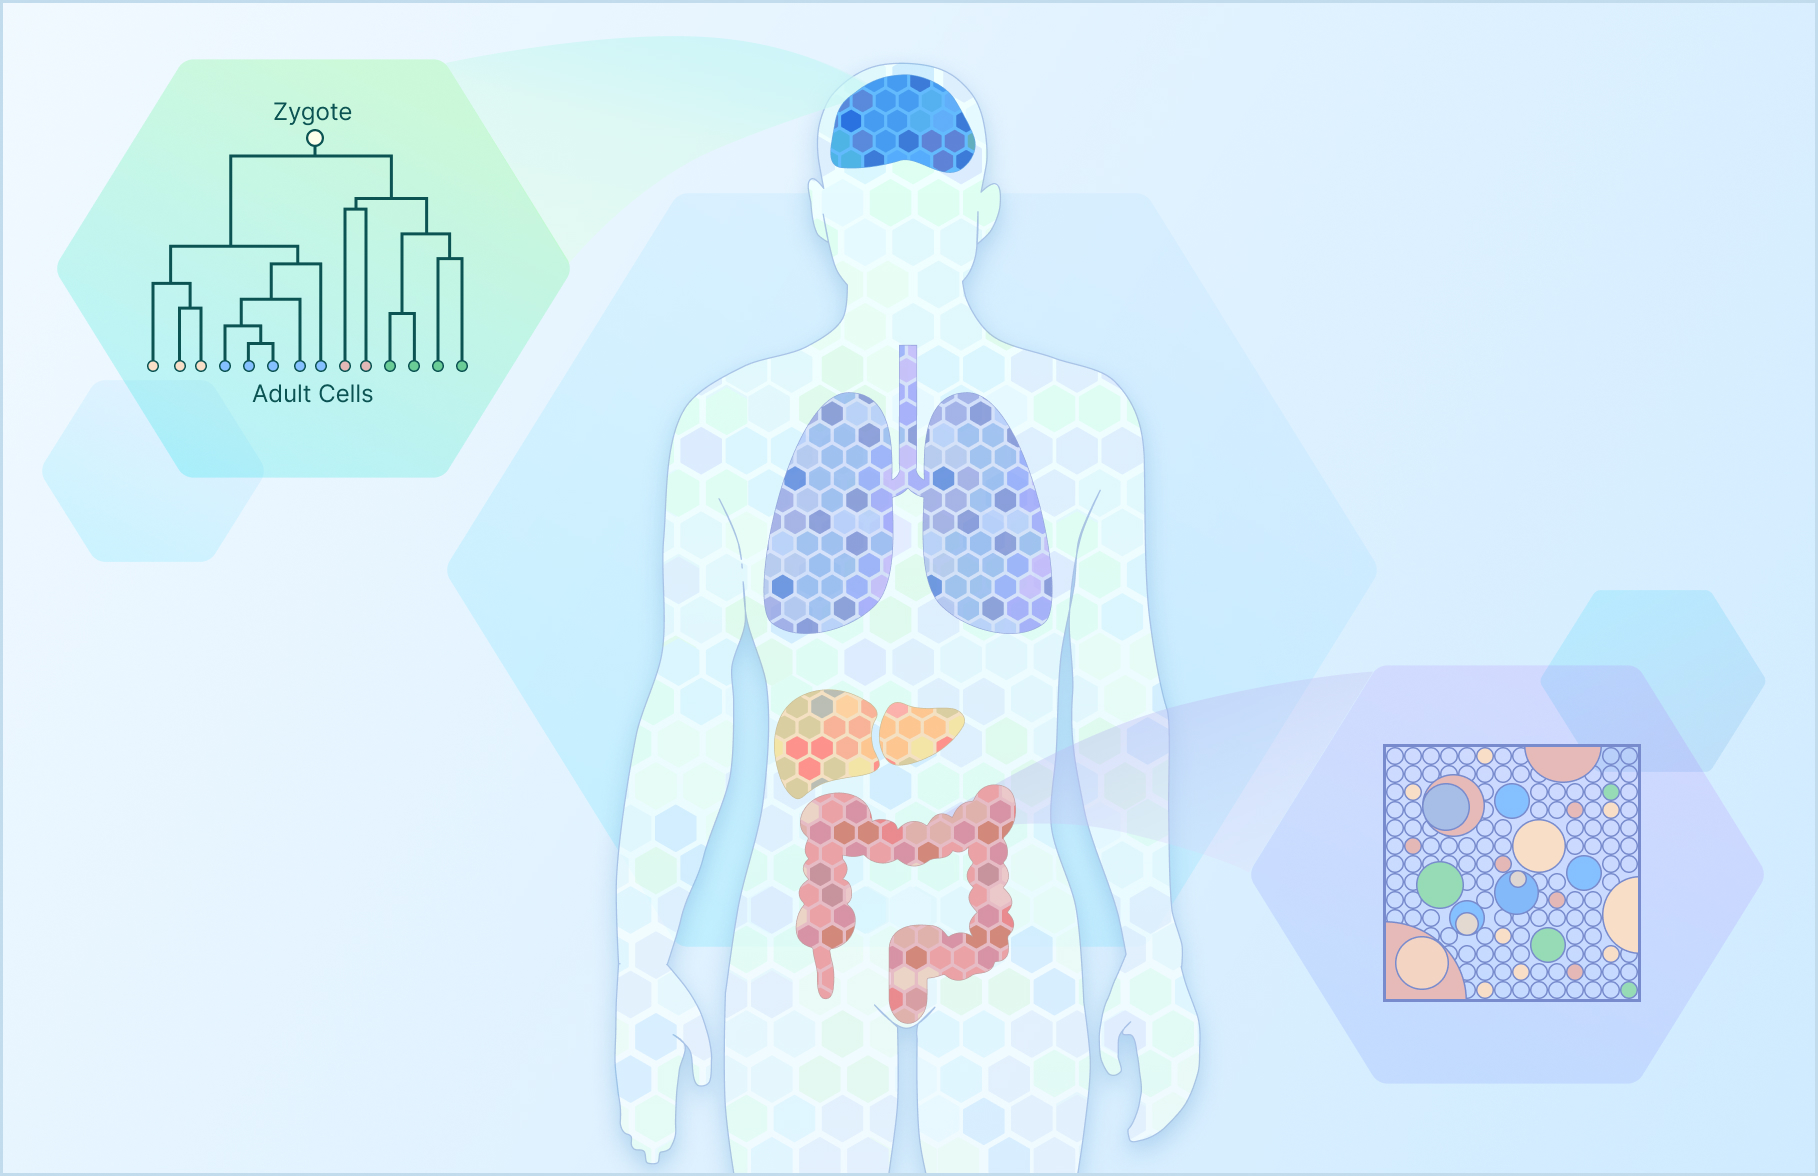
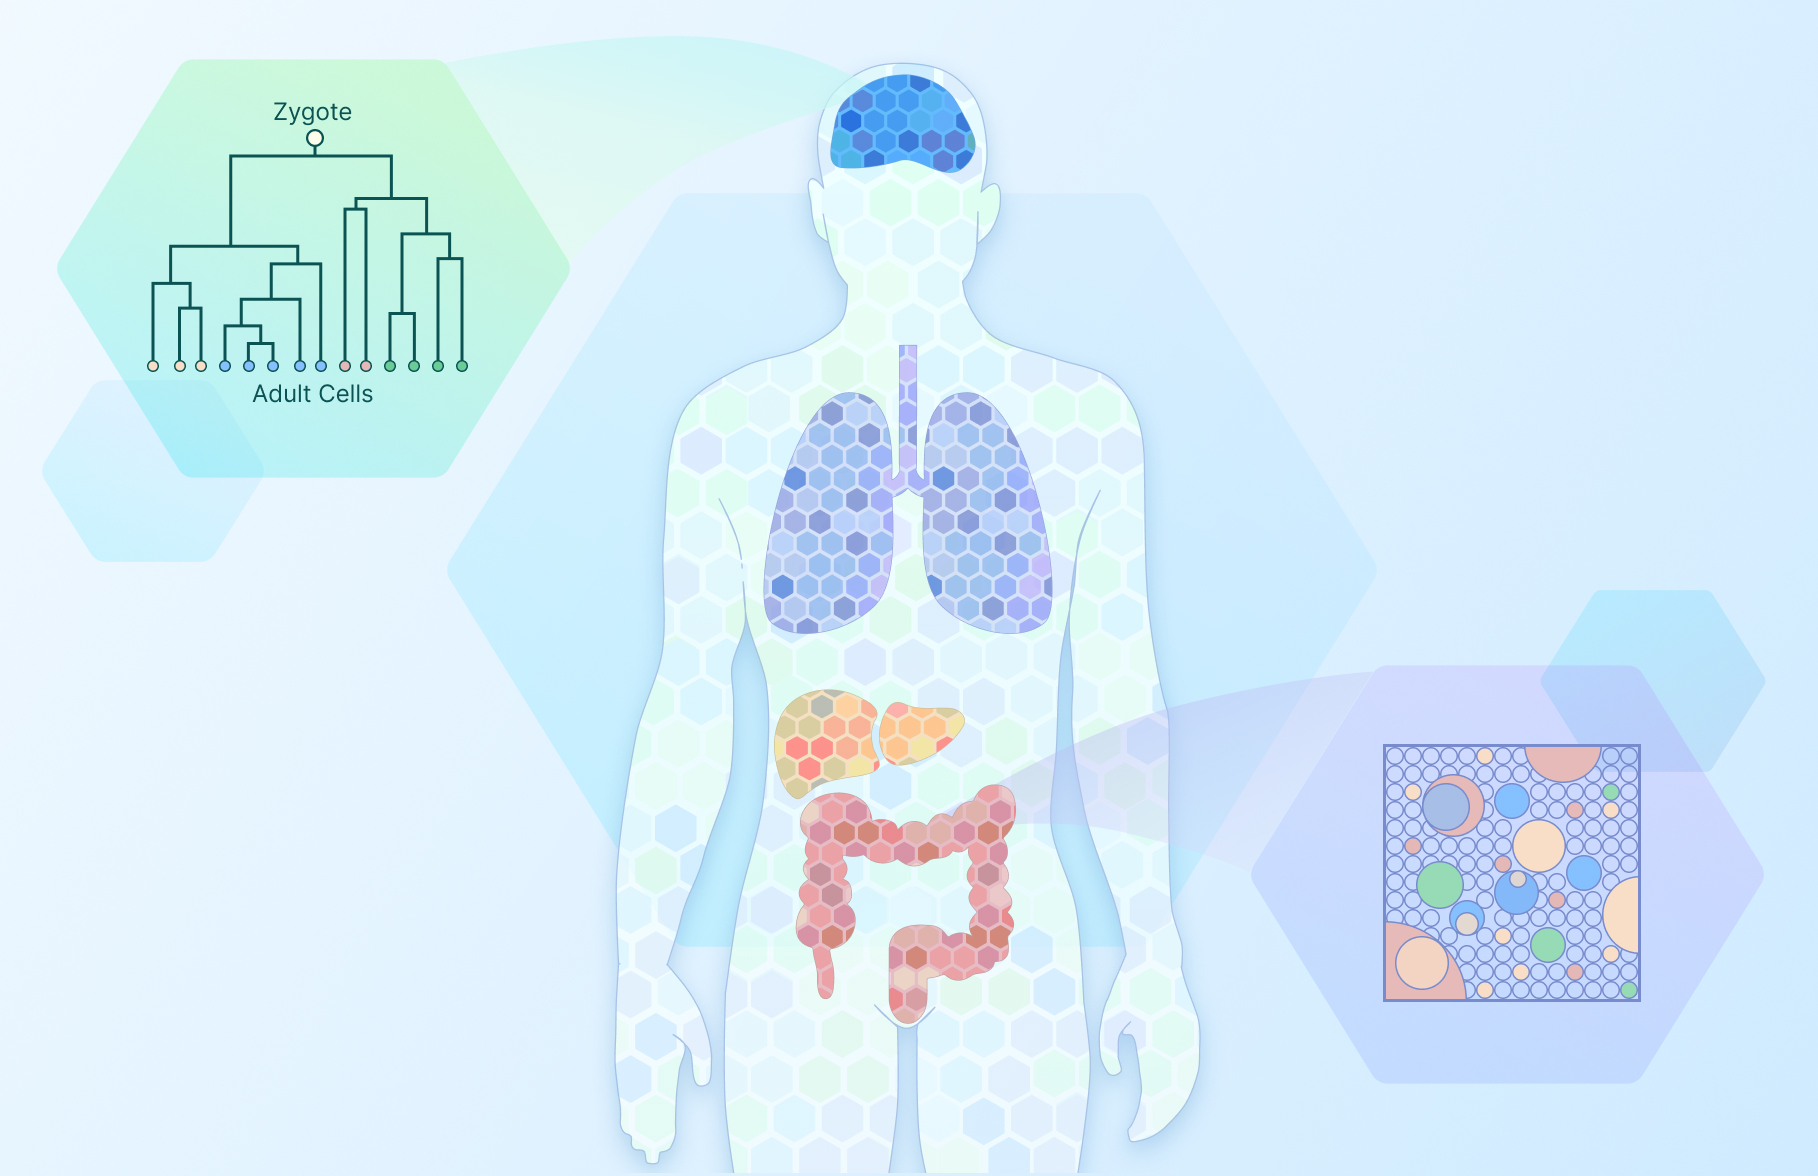
fix: update image without border

Changed region(s): [[0.0, 0.9796, 0.4928, 1.0], [0.0, 0.0, 0.0308, 0.0306]]

diff --git a/src/encoded/static/scss/encoded/modules/_search.scss b/src/encoded/static/scss/encoded/modules/_search.scss
@@ -1269,8 +1269,8 @@ body[data-at-type^='Publication-collections'] {
                 display: flex;
                 margin: auto 0px auto auto;
                 overflow: hidden;
-                border: 1px solid #c2dbec;
-                border-radius: 10px;
+                border: 2px solid #c2dbec;
+                border-radius: 16px;
                 height: max-content;
 
                 img {
